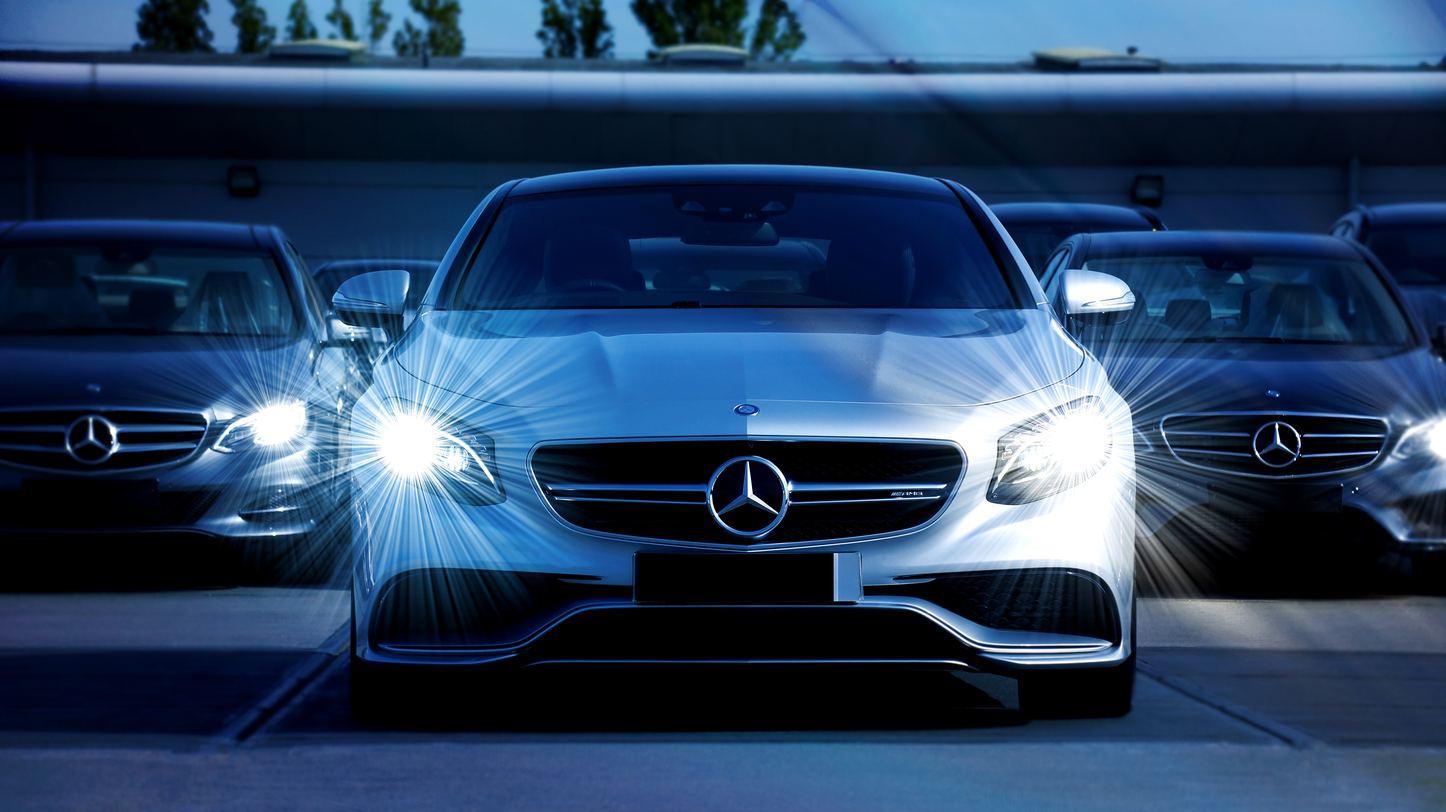
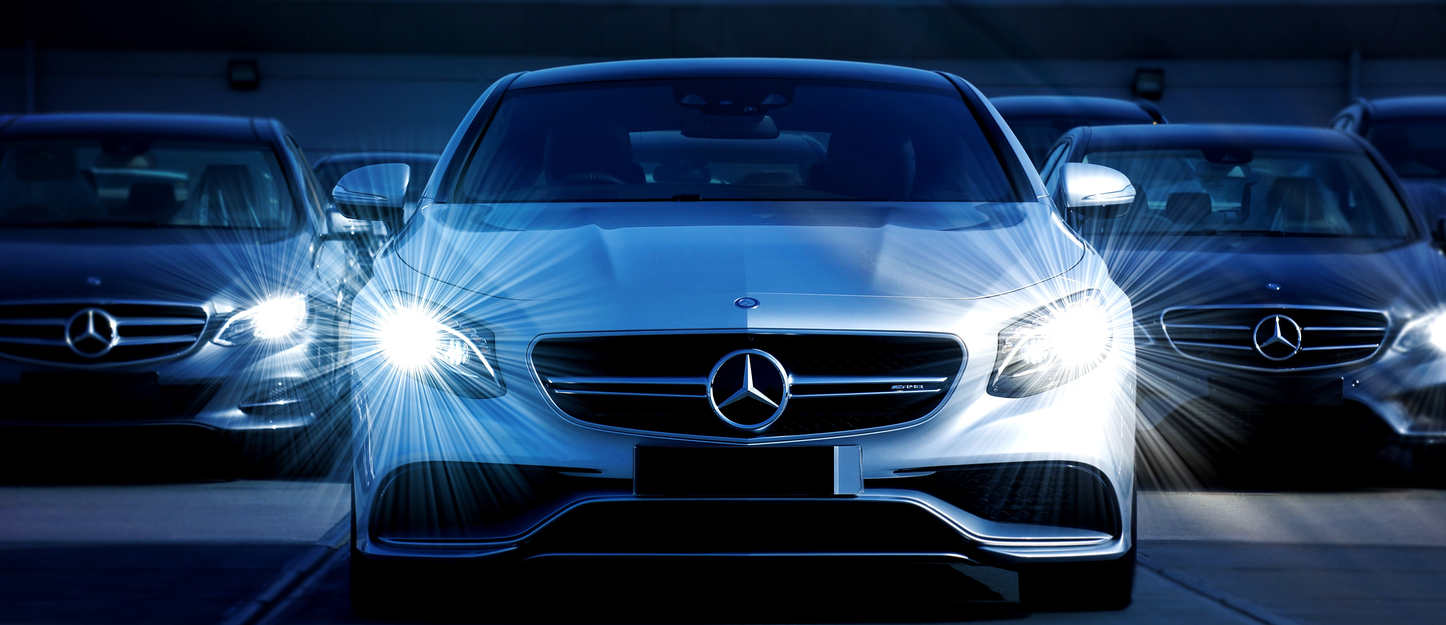
Improvements

diff --git a/css/custom.css b/css/custom.css
@@ -1,8 +1,11 @@
 .item {
     text-align: center;
+    max-height: 400px !important;
 }
 
 .item img {
-    height: 450px !important;
     width: 100%;
+    display: inline-block;
+    margin: 0 auto;
+    height: auto;
 }

diff --git a/admin/carindex.php b/admin/carindex.php
@@ -148,9 +148,15 @@ if (isset($_GET['delete'])) {
         <td><?php echo $row['price']?></td>
         <td><img src="./uploads/<?php echo $row['photo'] ?>" alt="car_image" height="120px" width="170px"></td>
         <td>
+            <!-- Book button -->
             <a class="btn btn-info btn-sm"href="booking.php?id=<?php echo $row['car_id']?>"><span class="glyphicon glyphicon-order"></span>Book</a>
+            <!-- Edit button -->
             <a class="btn btn-info btn-sm"href="edit.php?id=<?php echo $row['car_id']?>"><span class="glyphicon glyphicon-edit"></span>Edit</a>
-            <a class="btn btn-danger btn-sm"href="carindex.php?delete=<?php echo $row['car_id'];?>&img=<?php echo $row['photo'];?>" onclick="return confirm('Are you sure you want to delete this record?')"><span class="glyphicon glyphicon-remove-circle"></span>Delete</a>
+            <!-- Delete button -->
+            <a class="btn btn-danger btn-sm"href="carindex.php?delete=<?php echo $row['car_id'];?>&img=<?php echo $row['photo'];?>" onclick="return confirm('Are you sure you want to delete this record?')">
+                <span class="glyphicon glyphicon-remove-circle"></span>
+                Delete
+            </a>
         </td>
     </tr>
     <?php

diff --git a/user/carindex.php b/user/carindex.php
@@ -80,7 +80,7 @@ if (!isset($_SESSION['type']) || $_SESSION['type'] !== 'user') {
         </ol>
         <div class="carousel-inner">
             <div class="item active">
-                <img src="../assets/images/martin0.jpg">
+                <img src="../assets/images/benz.jpg">
                 <div class="carousel-caption">
                     <h1>Austin Martin</h1>
                 </div>

diff --git a/user/index.php b/user/index.php
@@ -81,9 +81,9 @@ if (!isset($_SESSION['type']) || $_SESSION['type'] !== 'user') {
     </ol>
     <div class="carousel-inner">
     <div class="item active">
-    <img src="../assets/images/martin0.jpg">
+    <img src="../assets/images/benz.jpg">
     <div class="carousel-caption">
-    <h1>Austin Martin</h1>
+    <h1>Benz</h1>
     </div>
     </div>
     <div class="item">
